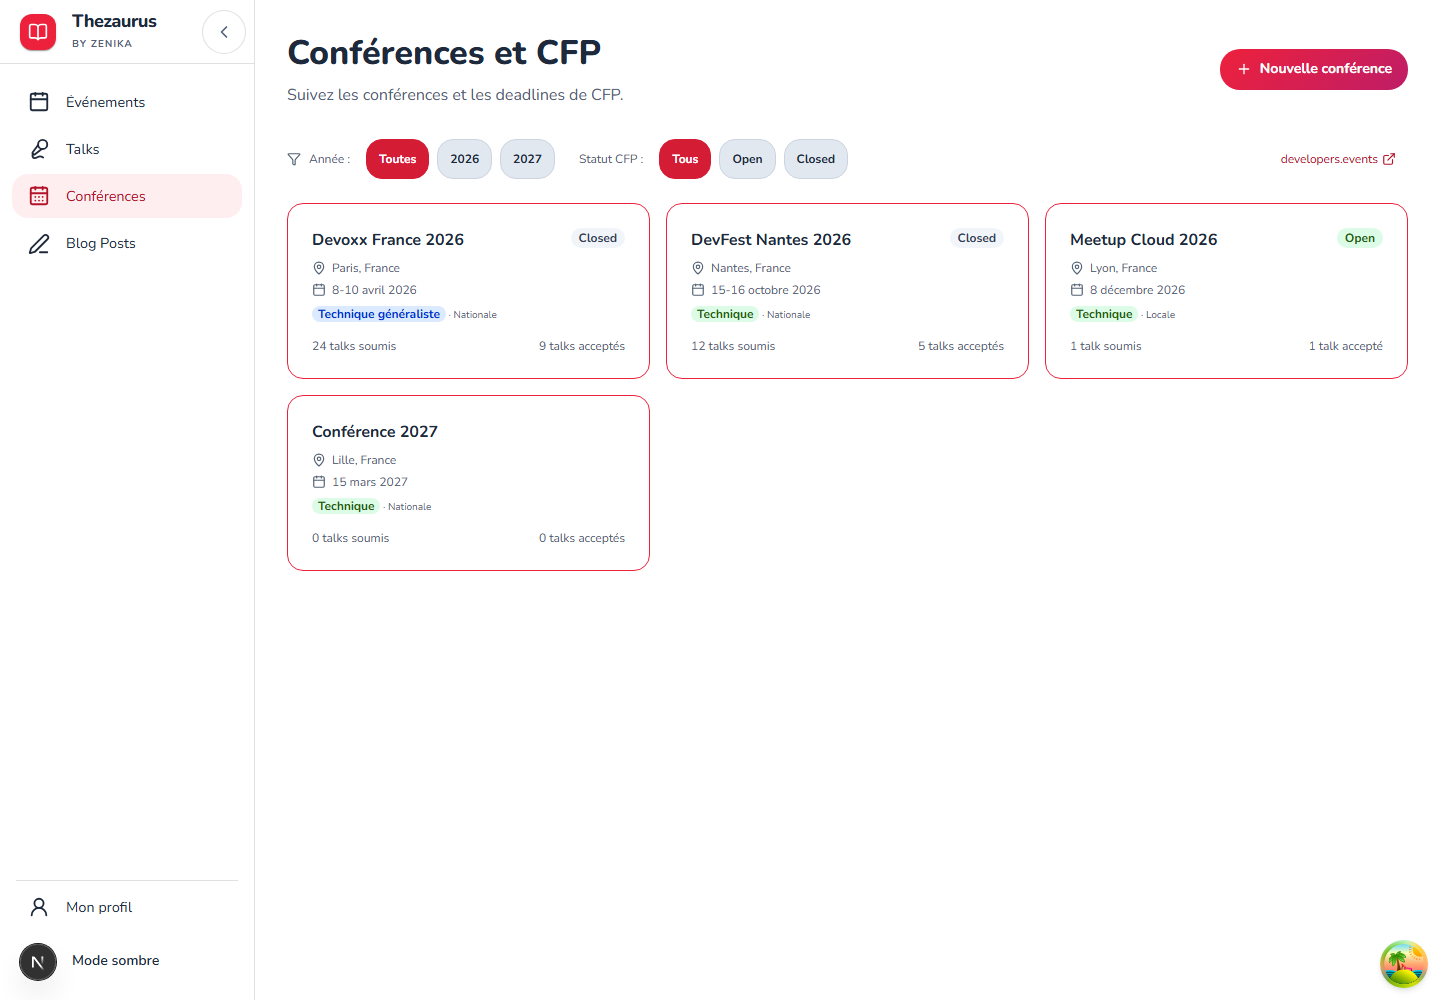
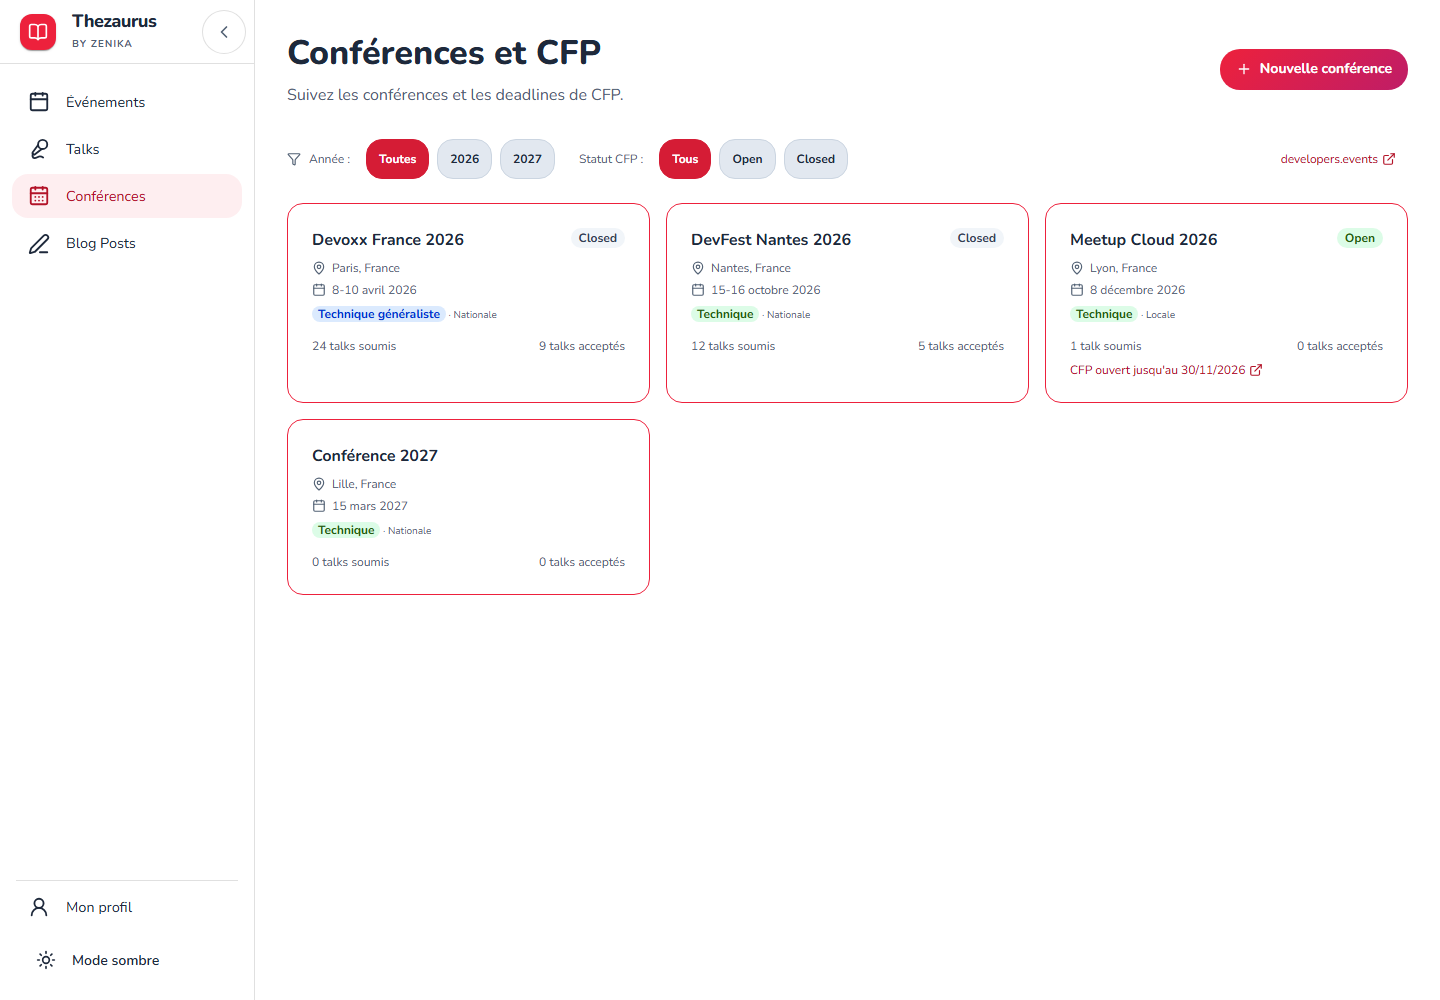
refactor(conferences): appliquer la revue indépendante et actualiser les captures

diff --git a/front/tests/conference-statistics.test.tsx b/front/tests/conference-statistics.test.tsx
@@ -14,9 +14,9 @@ it("charge les statistiques groupées en un seul appel", async () => {
     { id: "b", name: "Autre", submittedTalksAmount: 0, acceptedTalksAmount: 0 },
   ]));
   vi.stubGlobal("fetch", fetch);
-  const conferences = await conferenceApi.getConferencesWithStatistics();
+  const conferences = await conferenceApi.getConferences();
   expect(fetch).toHaveBeenCalledTimes(1);
-  expect(String(fetch.mock.calls[0]?.[0])).toContain("/conferences?includeStatistics=true");
+  expect(String(fetch.mock.calls[0]?.[0])).toContain("/conferences");
   expect(conferences[0]).toMatchObject({ submittedTalksAmount: 4, acceptedTalksAmount: 2 });
   state.conferences = conferences;
   render(<ConferencesList />);

diff --git a/front/entities/conference/api.ts b/front/entities/conference/api.ts
@@ -50,11 +50,6 @@ export const mapBackendToFrontend = (c: BackendConference): ConferenceData => ({
 const toPayload = (c: ConferenceData): BackendConference => c;
 
 export const conferenceApi = {
-  getConferencesWithStatistics: async (): Promise<ConferenceData[]> => {
-    const res = await apiFetch("/conferences?includeStatistics=true");
-    if (!res.ok) throw new Error("Failed to fetch conference statistics");
-    return (await res.json()).map(mapBackendToFrontend);
-  },
   getConferences: async (): Promise<ConferenceData[]> => {
     const res = await apiFetch("/conferences");
     if (!res.ok) throw new Error("Failed to fetch conferences");

diff --git a/front/features/conferences/model/useConferences.ts b/front/features/conferences/model/useConferences.ts
@@ -5,8 +5,8 @@ import { useConferencesMutations } from "./useConferencesMutations";
 
 export function useConferences() {
   const { data: conferences } = useSuspenseQuery({
-    queryKey: [...queryKeys.conferences.lists(), "statistics"],
-    queryFn: () => conferenceApi.getConferencesWithStatistics(),
+    queryKey: queryKeys.conferences.lists(),
+    queryFn: () => conferenceApi.getConferences(),
   });
 
   const mutations = useConferencesMutations();

diff --git a/api/src/main/java/com/zenika/thezaurus/repository/TalkRepository.java b/api/src/main/java/com/zenika/thezaurus/repository/TalkRepository.java
@@ -254,7 +254,6 @@ public class TalkRepository {
             if (newId != null && newId.isBlank()) newId = null;
             String oldId = stored != null ? ConferenceCounters.conferenceId(stored) : null;
             Map<String, DocumentSnapshot> conferenceDocuments = new HashMap<>();
-            Map<String, DocumentReference> conferenceReferences = new HashMap<>();
             if (selected != null
                     && selected.getId() != null
                     && !selected.getId().isBlank()) {
@@ -271,7 +270,6 @@ public class TalkRepository {
                 current = conference.toObject(Conference.class);
                 storedConference = Map.of("id", selected.getId());
                 conferenceDocuments.put(newId, conference);
-                conferenceReferences.put(newId, conferenceReference);
             } else if (selected != null
                     && selected.getName() != null
                     && !selected.getName().isBlank()) {
@@ -286,7 +284,6 @@ public class TalkRepository {
                 // Never recreate a conference that has already been deleted.
                 if (oldConference.exists()) {
                     conferenceDocuments.put(oldId, oldConference);
-                    conferenceReferences.put(oldId, oldReference);
                 }
             }
             Map<String, ConferenceCounters.Counts> deltas = new HashMap<>();
@@ -324,7 +321,8 @@ public class TalkRepository {
                 payload.put("date", selected.getDate().getStart());
             }
             for (var entry : updatedCounts.entrySet()) {
-                ConferenceCounters.write(transaction, conferenceReferences.get(entry.getKey()), entry.getValue());
+                ConferenceCounters.write(
+                        transaction, conferenceDocuments.get(entry.getKey()).getReference(), entry.getValue());
             }
             if (canEdit == null) transaction.create(reference, payload);
             else transaction.set(reference, payload);

diff --git a/api/src/test/java/com/zenika/thezaurus/repository/TalkRepositoryTest.java b/api/src/test/java/com/zenika/thezaurus/repository/TalkRepositoryTest.java
@@ -148,6 +148,7 @@ public class TalkRepositoryTest {
         Mockito.when(conferences.document("conf")).thenReturn(conferenceRef);
         Mockito.when(conferenceRef.get()).thenReturn(ApiFutures.immediateFuture(conferenceDoc));
         Mockito.when(conferenceDoc.exists()).thenReturn(true);
+        Mockito.when(conferenceDoc.getReference()).thenReturn(conferenceRef);
         Mockito.when(conferenceDoc.getLong(ConferenceCounters.VERSION_FIELD)).thenReturn(1L);
         Mockito.when(conferenceDoc.getLong("submittedTalksAmount")).thenReturn(0L);
         Mockito.when(conferenceDoc.getLong("acceptedTalksAmount")).thenReturn(0L);
@@ -167,6 +168,7 @@ public class TalkRepositoryTest {
         Mockito.when(conferences.document("conf")).thenReturn(conferenceRef);
         Mockito.when(transaction.get(conferenceRef)).thenReturn(ApiFutures.immediateFuture(conferenceDoc));
         Mockito.when(conferenceDoc.exists()).thenReturn(true);
+        Mockito.when(conferenceDoc.getReference()).thenReturn(conferenceRef);
         Mockito.when(conferenceDoc.getLong(ConferenceCounters.VERSION_FIELD)).thenReturn(1L);
         Mockito.when(conferenceDoc.getLong("submittedTalksAmount")).thenReturn(0L);
         Mockito.when(conferenceDoc.getLong("acceptedTalksAmount")).thenReturn(0L);

diff --git a/api/src/main/java/com/zenika/thezaurus/repository/ConferenceCounters.java b/api/src/main/java/com/zenika/thezaurus/repository/ConferenceCounters.java
@@ -26,10 +26,14 @@ final class ConferenceCounters {
         }
 
         Map<String, Object> fields() {
-            if (submitted < 0 || accepted < 0 || accepted > submitted || submitted > Integer.MAX_VALUE) {
+            if (!valid()) {
                 throw new IllegalStateException("Compteurs de conférence incohérents");
             }
             return Map.of("submittedTalksAmount", submitted, "acceptedTalksAmount", accepted, VERSION_FIELD, VERSION);
+        }
+
+        boolean valid() {
+            return submitted >= 0 && accepted >= 0 && accepted <= submitted && submitted <= Integer.MAX_VALUE;
         }
     }
 
@@ -52,10 +56,7 @@ final class ConferenceCounters {
         return Long.valueOf(VERSION).equals(conference.getLong(VERSION_FIELD))
                 && submitted != null
                 && accepted != null
-                && submitted >= 0
-                && accepted >= 0
-                && accepted <= submitted
-                && submitted <= Integer.MAX_VALUE;
+                && new Counts(submitted, accepted).valid();
     }
 
     static Counts read(Transaction transaction, DocumentSnapshot conference, CollectionReference talks, String id)

diff --git a/api/src/test/java/com/zenika/thezaurus/resource/ConferenceResourceTest.java b/api/src/test/java/com/zenika/thezaurus/resource/ConferenceResourceTest.java
@@ -55,7 +55,7 @@ public class ConferenceResourceTest {
         Conference conference = new Conference("1", "Titre", null);
         conference.setSubmittedTalksAmount(4);
         conference.setAcceptedTalksAmount(2);
-        Mockito.when(service.findAllWithStatistics()).thenReturn(java.util.List.of(conference));
+        Mockito.when(service.findAll()).thenReturn(java.util.List.of(conference));
         given().queryParam("includeStatistics", true)
                 .when()
                 .get("/conferences")

diff --git a/api/src/main/java/com/zenika/thezaurus/service/ConferenceService.java b/api/src/main/java/com/zenika/thezaurus/service/ConferenceService.java
@@ -13,11 +13,6 @@ public class ConferenceService {
     @Inject
     ConferenceRepository repository;
 
-    public List<Conference> findAllWithStatistics() throws ExecutionException, InterruptedException {
-        // Kept for compatibility with includeStatistics=true; counters now come from the catalogue itself.
-        return repository.findAll();
-    }
-
     public List<Conference> findAll() throws ExecutionException, InterruptedException {
         return repository.findAll();
     }

diff --git a/api/src/test/java/com/zenika/thezaurus/service/ConferenceServiceTest.java b/api/src/test/java/com/zenika/thezaurus/service/ConferenceServiceTest.java
@@ -17,7 +17,7 @@ class ConferenceServiceTest {
         conference.setSubmittedTalksAmount(4);
         conference.setAcceptedTalksAmount(2);
         when(service.repository.findAll()).thenReturn(List.of(conference));
-        assertEquals(List.of(conference), service.findAllWithStatistics());
+        assertEquals(List.of(conference), service.findAll());
         verify(service.repository).findAll();
         verifyNoMoreInteractions(service.repository);
     }

diff --git a/api/src/main/java/com/zenika/thezaurus/resource/ConferenceResource.java b/api/src/main/java/com/zenika/thezaurus/resource/ConferenceResource.java
@@ -31,7 +31,7 @@ public class ConferenceResource {
     @GET
     public List<Conference> list(@QueryParam("includeStatistics") boolean includeStatistics)
             throws ExecutionException, InterruptedException {
-        return includeStatistics ? service.findAllWithStatistics() : service.findAll();
+        return service.findAll();
     }
 
     @GET

diff --git a/docs/ConferenceStatistics.md b/docs/ConferenceStatistics.md
@@ -116,10 +116,12 @@ volumes réels. La migration ajoute un coût ponctuel à amortir.
 
 ## Captures de l'interface
 
-Captures du vrai front de la branche, le 30 octobre 2026, avec réponses API et session de
+Captures du vrai front de la branche, le 2 novembre 2026, avec réponses API et session de
 démonstration interceptées dans le navigateur. Docker étant arrêté, elles ne constituent pas
 une validation de bout en bout contre Firestore. Les chiffres sont fictifs et ne viennent pas
-de la production. Aucun code de l'interface n'a été modifié pour ces captures.
+de la production. Les compteurs sont dérivés des talks du [scénario de démonstration](screenshots/issue-196/scenario.json),
+avec 24 soumissions dont 9 acceptations, 12 dont 5, une soumission en attente et une conférence vide.
+Aucun code de l'interface n'a été modifié pour ces captures.
 
 - [Bureau, 1440 × 1000](screenshots/issue-196/conferences-desktop.png).
 - [Mobile, 390 × 1100](screenshots/issue-196/conferences-mobile.png).
@@ -127,7 +129,8 @@ de la production. Aucun code de l'interface n'a été modifié pour ces captures
 
 Vérifications automatisées de capture : compteurs pluriels et singuliers visibles, filtre de
 l'année fonctionnel, zéro visible, absence de débordement horizontal en mobile et exactement
-un appel groupé `/conferences?includeStatistics=true`, sans nouvel appel lors des filtres.
+un appel `/conferences`, sans nouvel appel lors des filtres. La liste et les sélecteurs partagent
+désormais la même entrée de cache ; les deux totaux sont toujours présents dans le catalogue.
 
 Références : [facturation Firestore](https://firebase.google.com/docs/firestore/pricing),
 [agrégations Firestore](https://firebase.google.com/docs/firestore/query-data/aggregation-queries).
